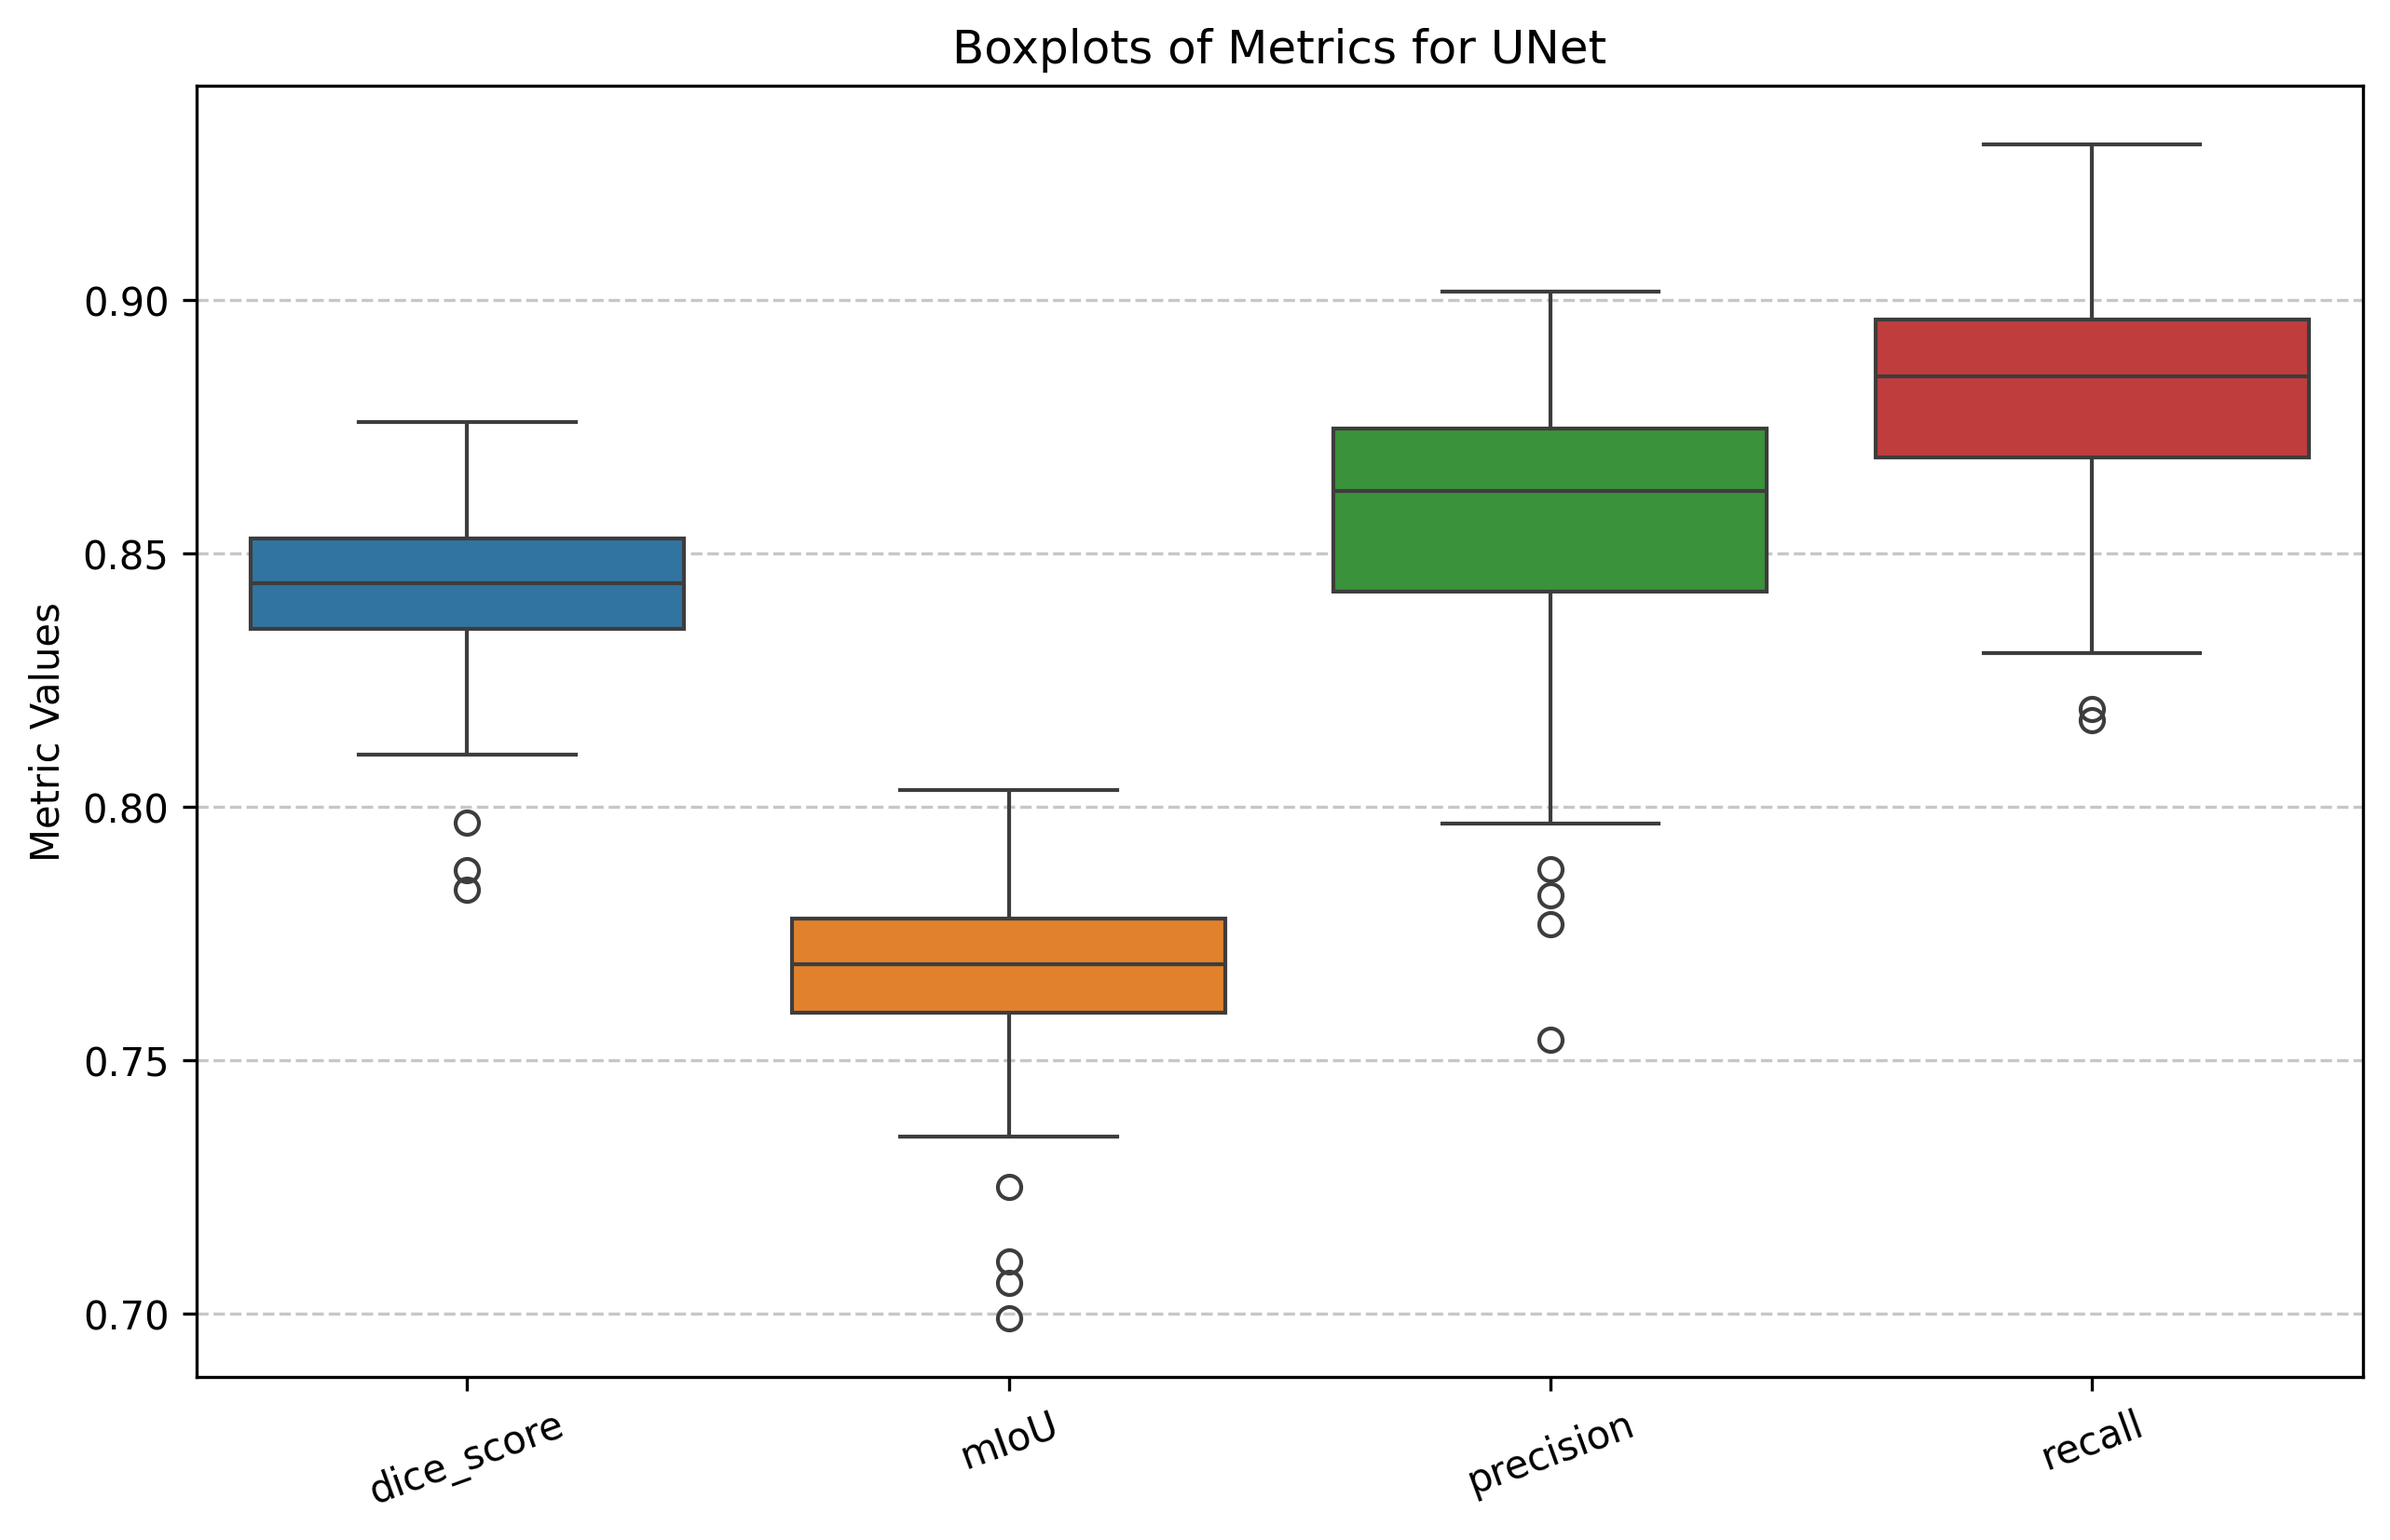
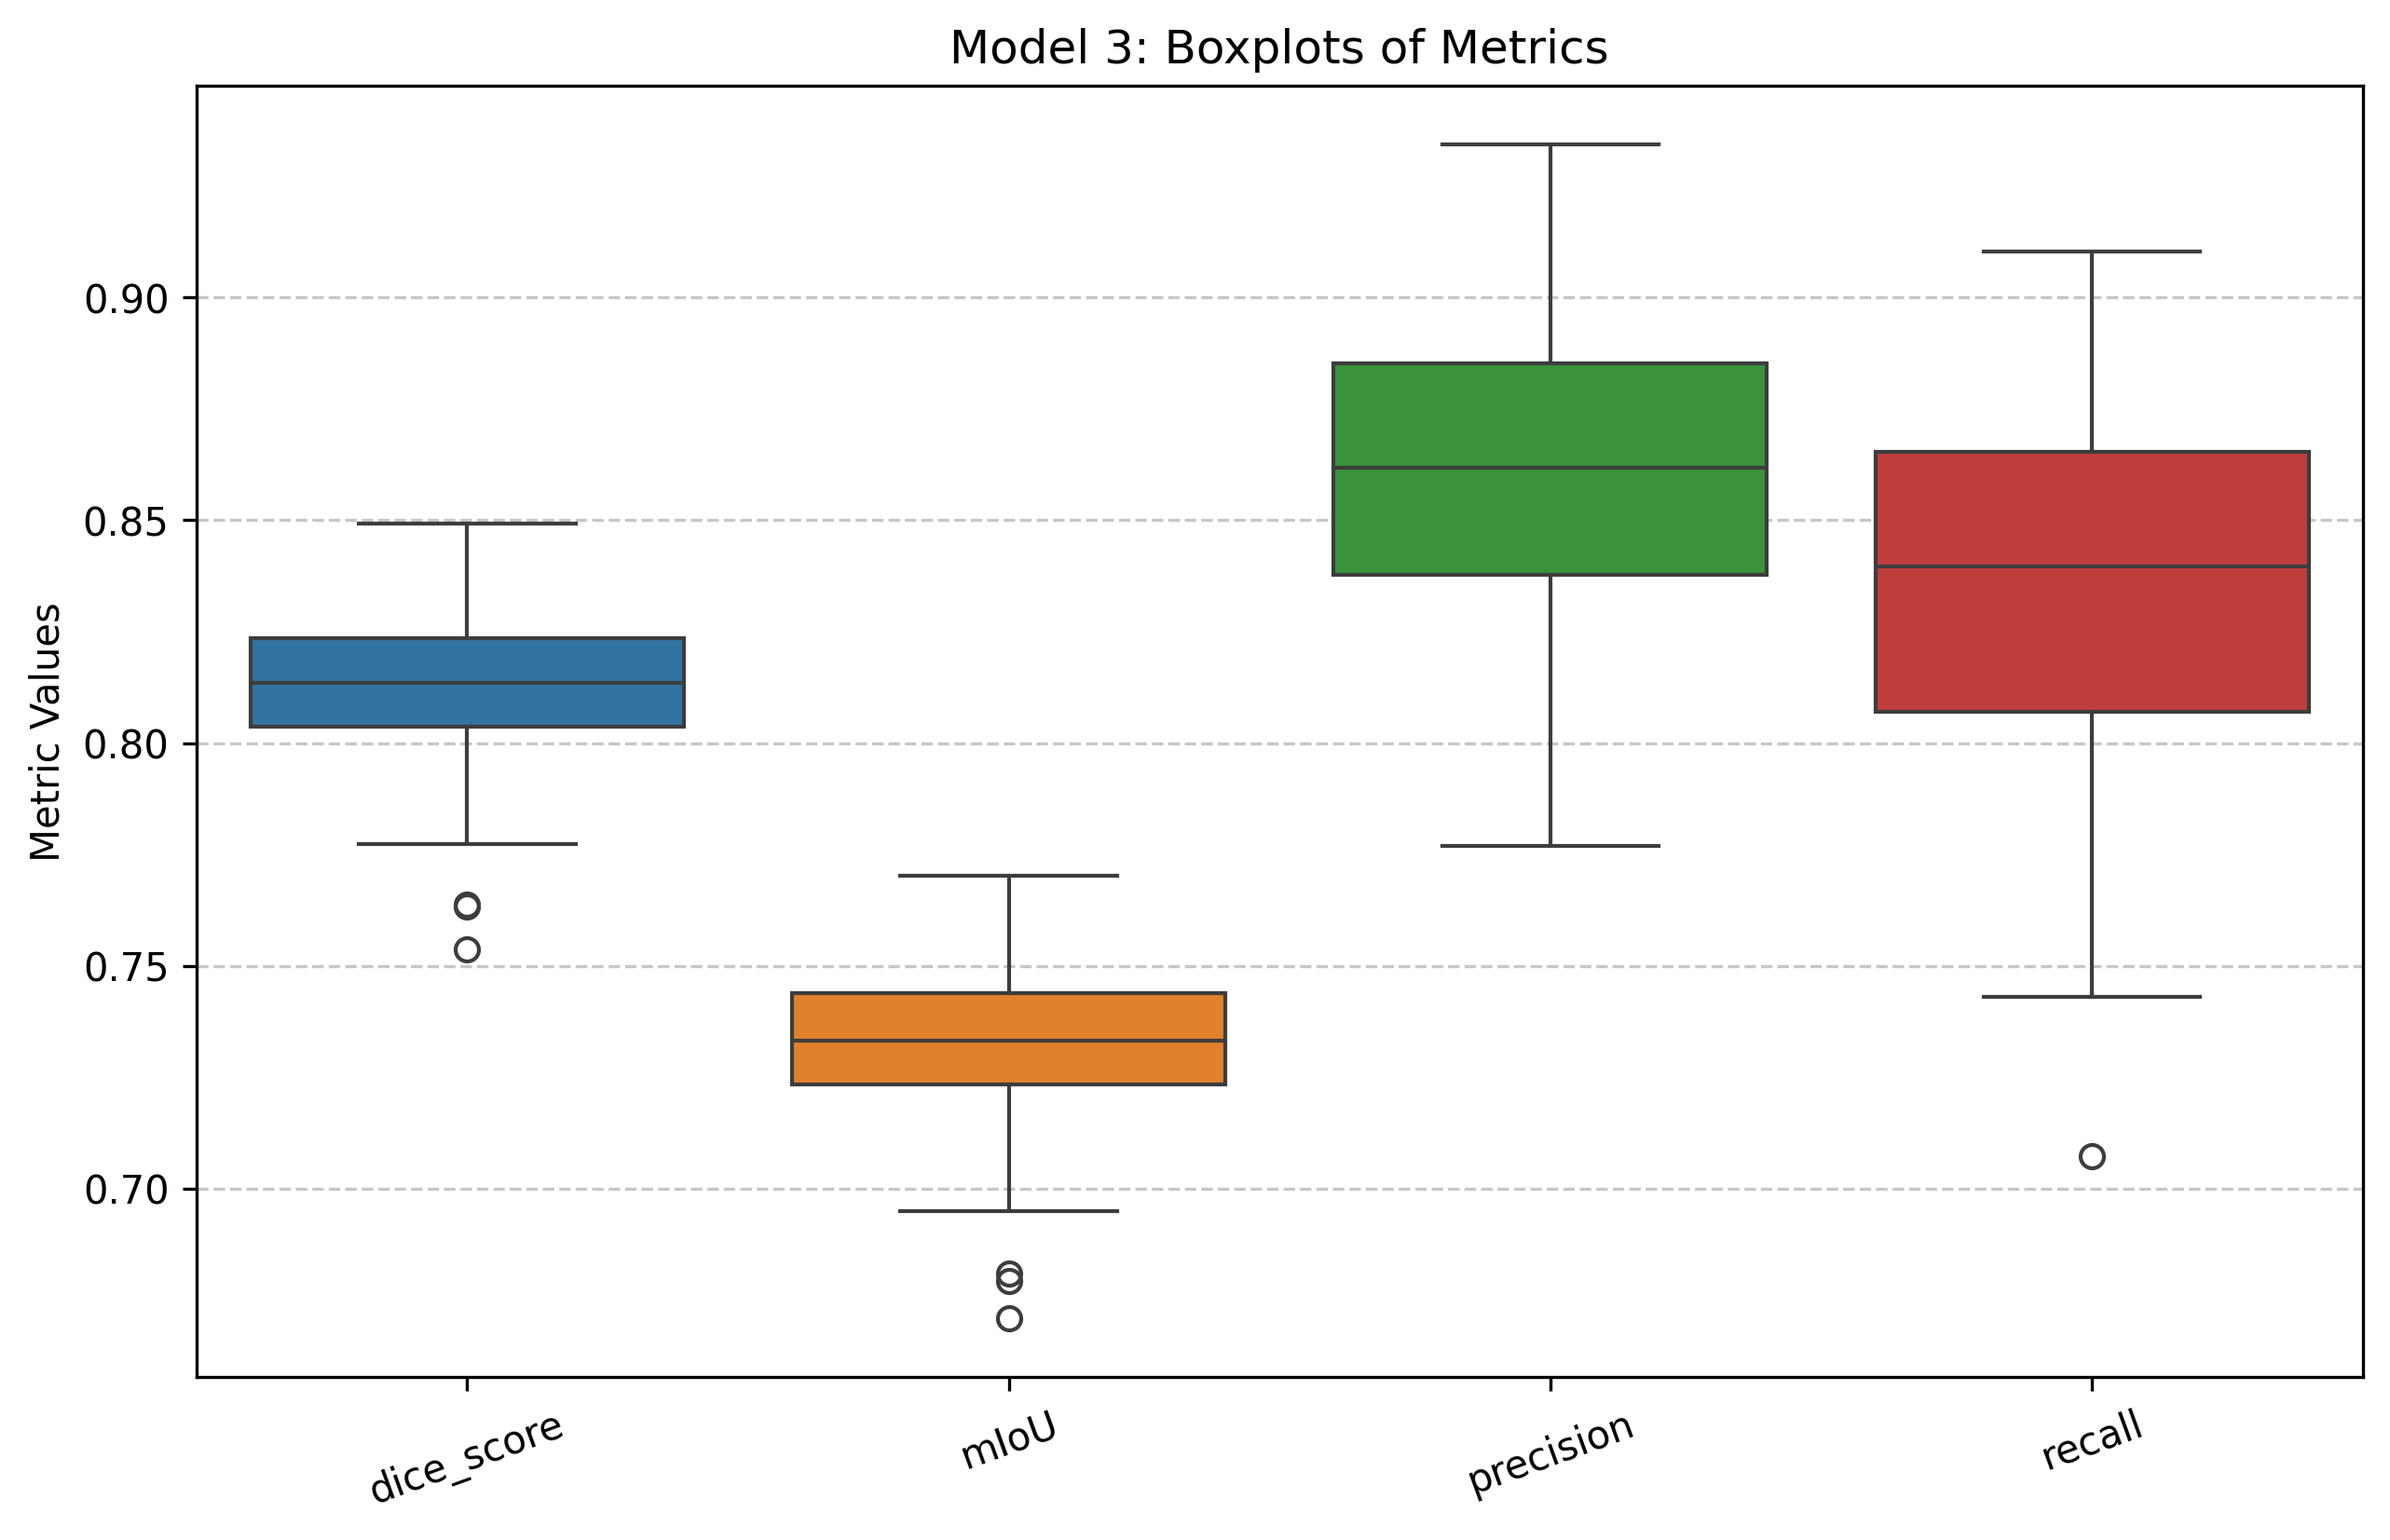
results for f1.2 - f3

diff --git a/analyse_results.py b/analyse_results.py
@@ -4,7 +4,7 @@ import matplotlib.pyplot as plt
 import seaborn as sns
 
 # File path
-file_path = "training_results.txt"
+file_path = "training_results_F3.txt"
 
 # Updated regex pattern to extract the two dictionaries
 dict_pattern = re.compile(r"Run \d+: (\{.*?\}), Credible Intervals: (\{.*?\})")
@@ -66,7 +66,7 @@ def plot_boxplots(metrics, filename="boxplot.png"):
     sns.boxplot(data=[metrics[key] for key in metrics.keys()])
     plt.xticks(ticks=range(len(metrics.keys())), labels=list(metrics.keys()), rotation=20)
     plt.ylabel("Metric Values")
-    plt.title("Boxplots of Metrics for UNet")
+    plt.title("Model 3: Boxplots of Metrics")
     plt.grid(axis="y", linestyle="--", alpha=0.7)
     # Save the figure
     plt.savefig(filename, bbox_inches="tight", dpi=300)
@@ -121,8 +121,8 @@ def plot_credible_intervals(runs, filename="credible_intervals.png"):
 
     plt.xlabel("Run Number")
     plt.ylabel("Metric Value")
-    plt.title("Bayesian Credible Intervals Over Training Runs with Mean Values")
-    plt.legend()
+    plt.title("Model 3: Bayesian Credible Intervals Over Training Runs with Mean Values")
+    plt.legend(loc='upper left', bbox_to_anchor=(1.05, 1), borderaxespad=0.)
     plt.grid(True, linestyle="--", alpha=0.7)
     plt.savefig(filename, bbox_inches="tight", dpi=300)
     plt.close()
